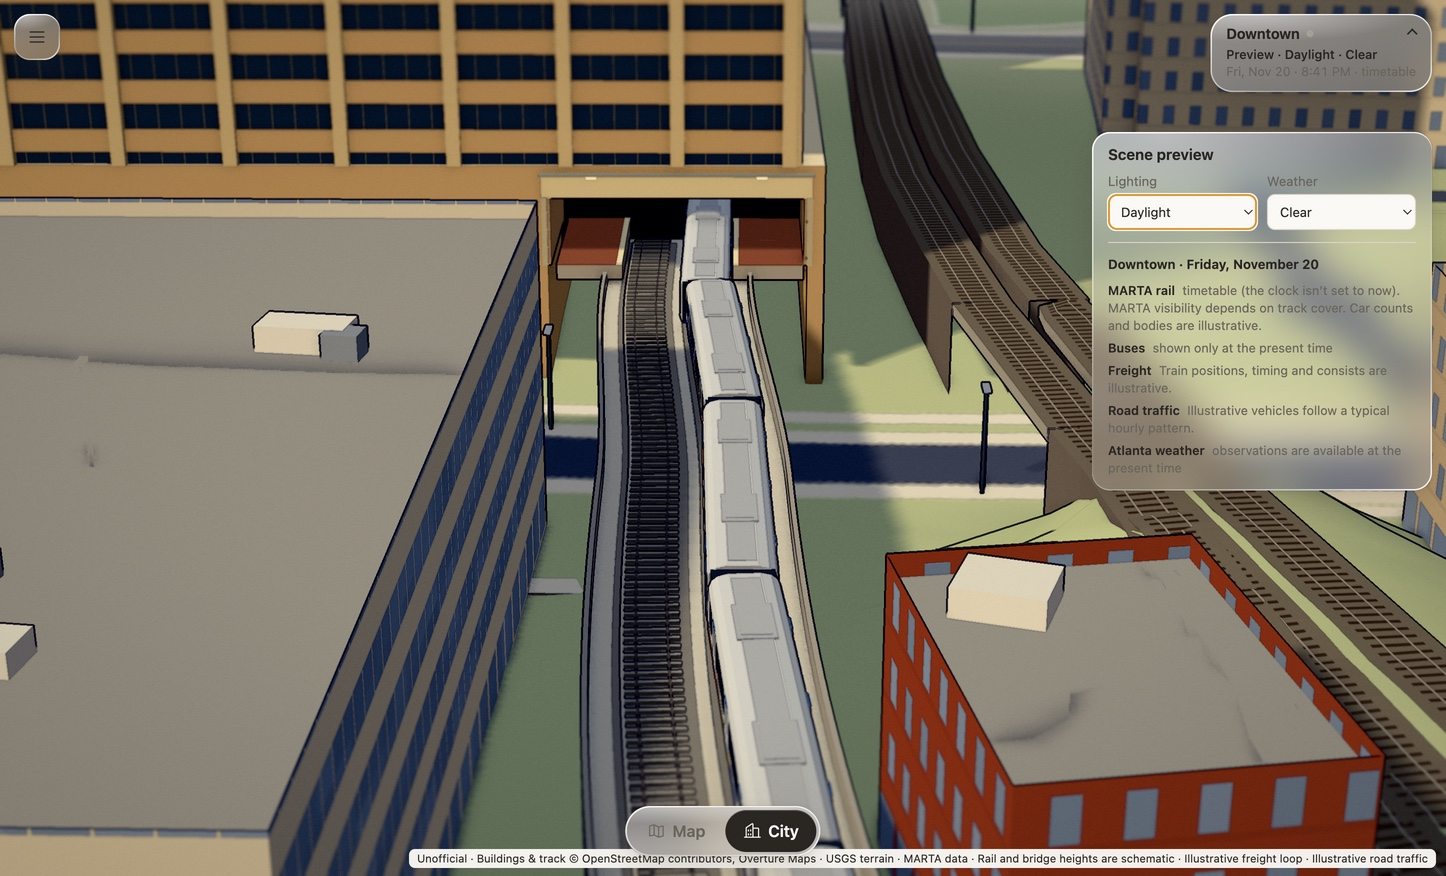
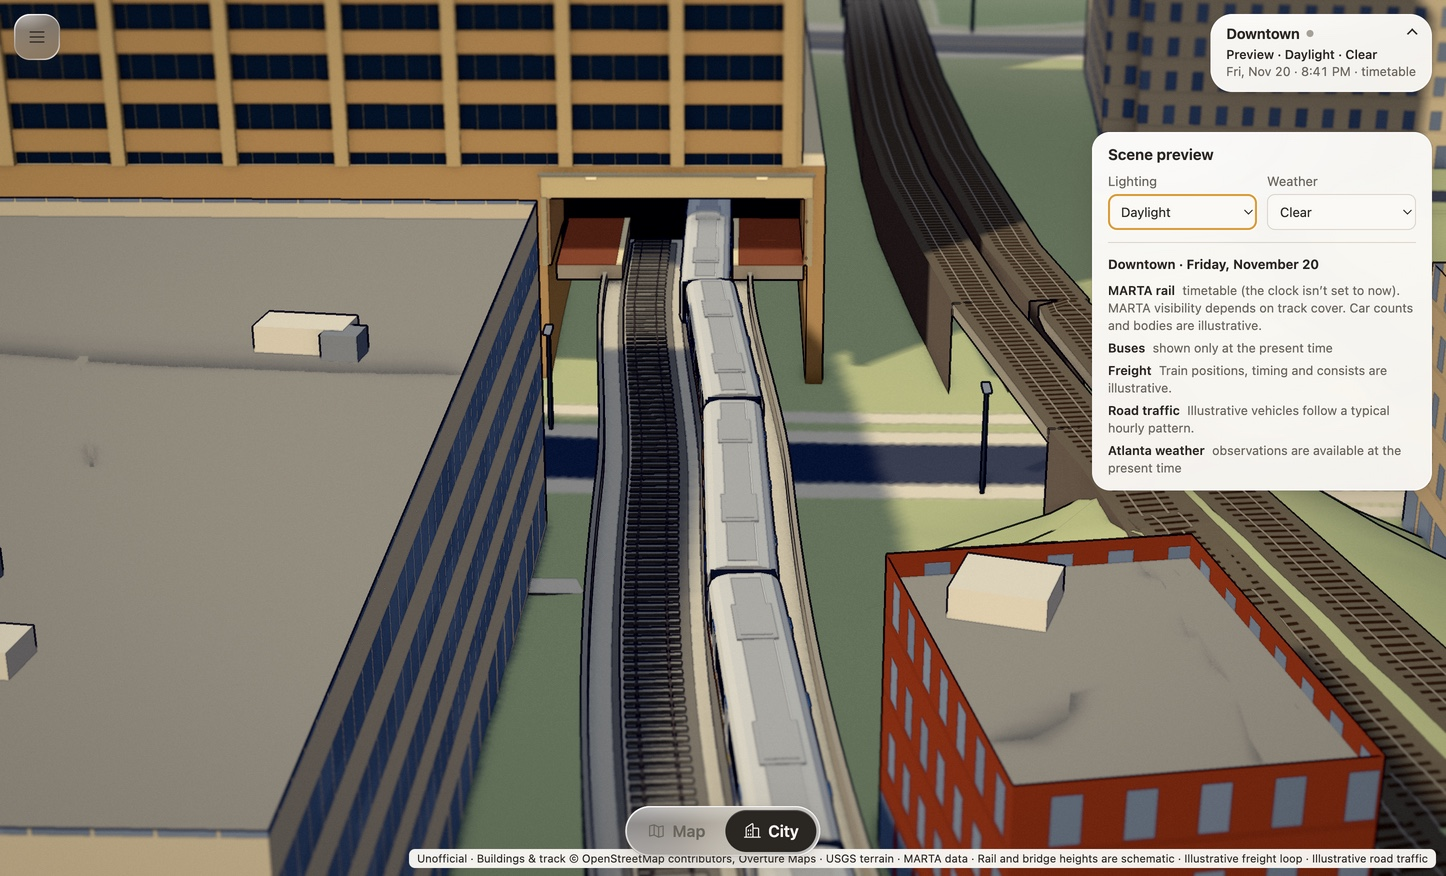
Keep preview and timetable labels readable over the scene

Changed region(s): [[0.7469, 0.1541, 0.9959, 0.5856], [0.8402, 0.0, 0.9959, 0.1233]]

diff --git a/web/src/ui/shell.css b/web/src/ui/shell.css
@@ -171,3 +171,7 @@
 :root[data-theme='dark'] .chip.reported { color: #ff9a6a; }
 :root[data-theme='dark'] .chip.inferred { color: #e6c05a; }
 :root[data-theme='dark'] .chip.illustrative { color: #bba6ff; }
+
+/* Keep the timetable and observation labels legible above bright roofs or dark streets. */
+.widget.glass, .drop-r.glass { background-color: var(--glass-solid); }
+:root[data-theme='dark'] .scene-conditions select { color-scheme: dark; }

diff --git a/docs/build-log.md b/docs/build-log.md
@@ -1482,4 +1482,4 @@ feed and from MARTA's station page. They are kept as reported history, not as se
 
 ### 2026-11-22 — Daylight on a night train
 
-Sam wanted to see detail in a dark station while watching the same arrival. The place and weather widget now opens a scene preview with separate lighting and weather choices. A paused 8:41 pm Atlanta timetable frame stays at 8:41 pm while the user switches on daylight. The view keeps the same train positions. The widget labels the preview, and the report below it still describes the observed Atlanta weather when the clock is live. We checked City and Map, returning to automatic conditions and fitting the panel inside a 360 × 640 phone frame. [Night view](log/ui/scene-conditions/dusk.jpg) · [Same moment in daylight](log/ui/scene-conditions/daylight.jpg)
+Sam wanted to see detail in a dark station while watching the same arrival. The place and weather widget now opens a scene preview with separate lighting and weather choices. A paused 8:41 pm Atlanta timetable frame stays at 8:41 pm while the user switches on daylight. The view keeps the same train positions. The widget labels the preview, and the report below it still describes the observed Atlanta weather when the clock is live. We checked City and Map, returning to automatic conditions and fitting the panel inside a 360 × 640 phone frame. [Night view](log/ui/scene-conditions/dusk.jpg) · [Same moment in daylight](log/ui/scene-conditions/daylight.jpg) · [Lighting chooser on the Galaxy A16](log/ui/scene-conditions/a16-lighting.jpg)
